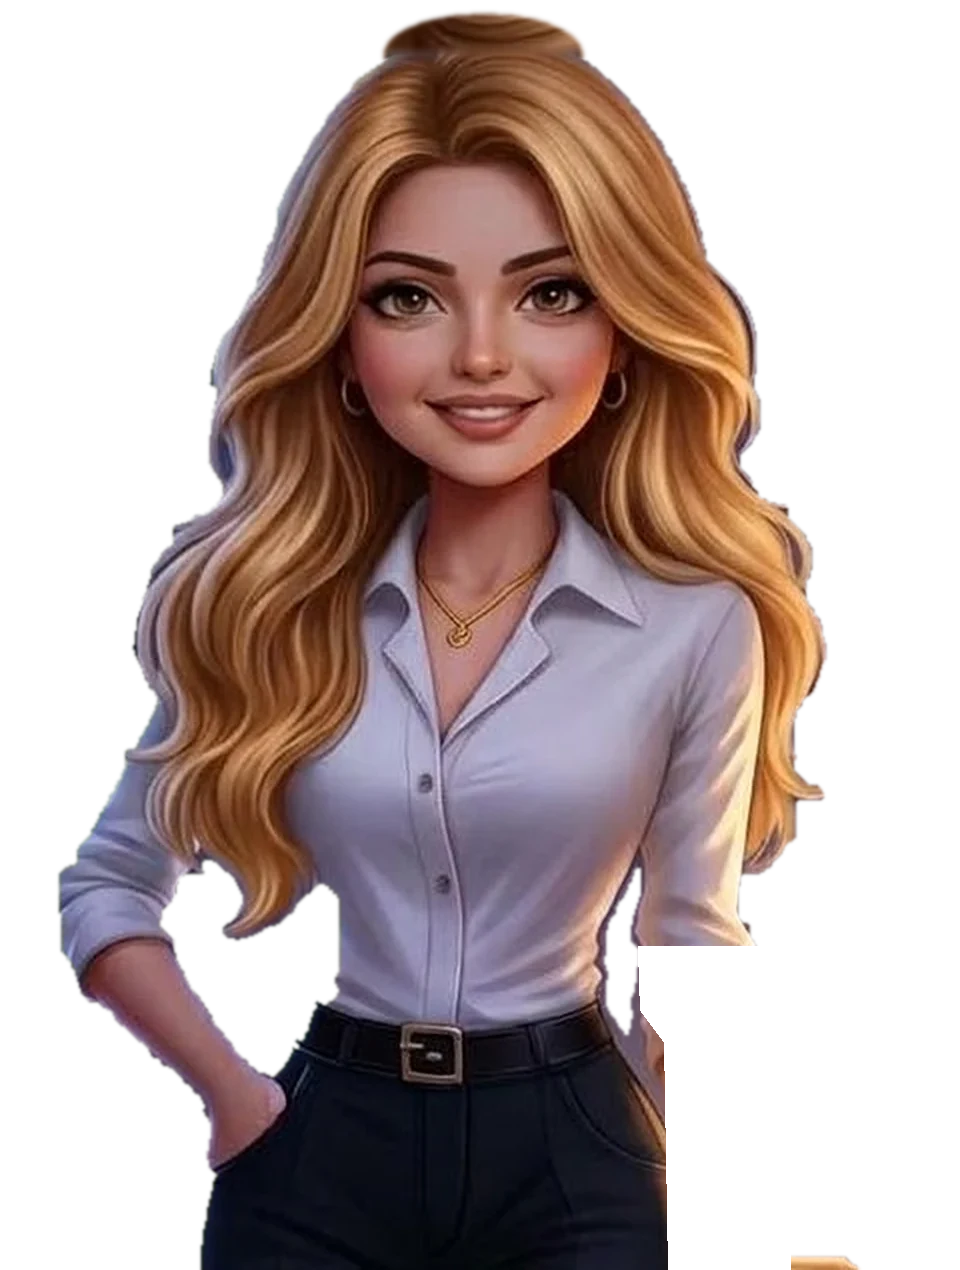
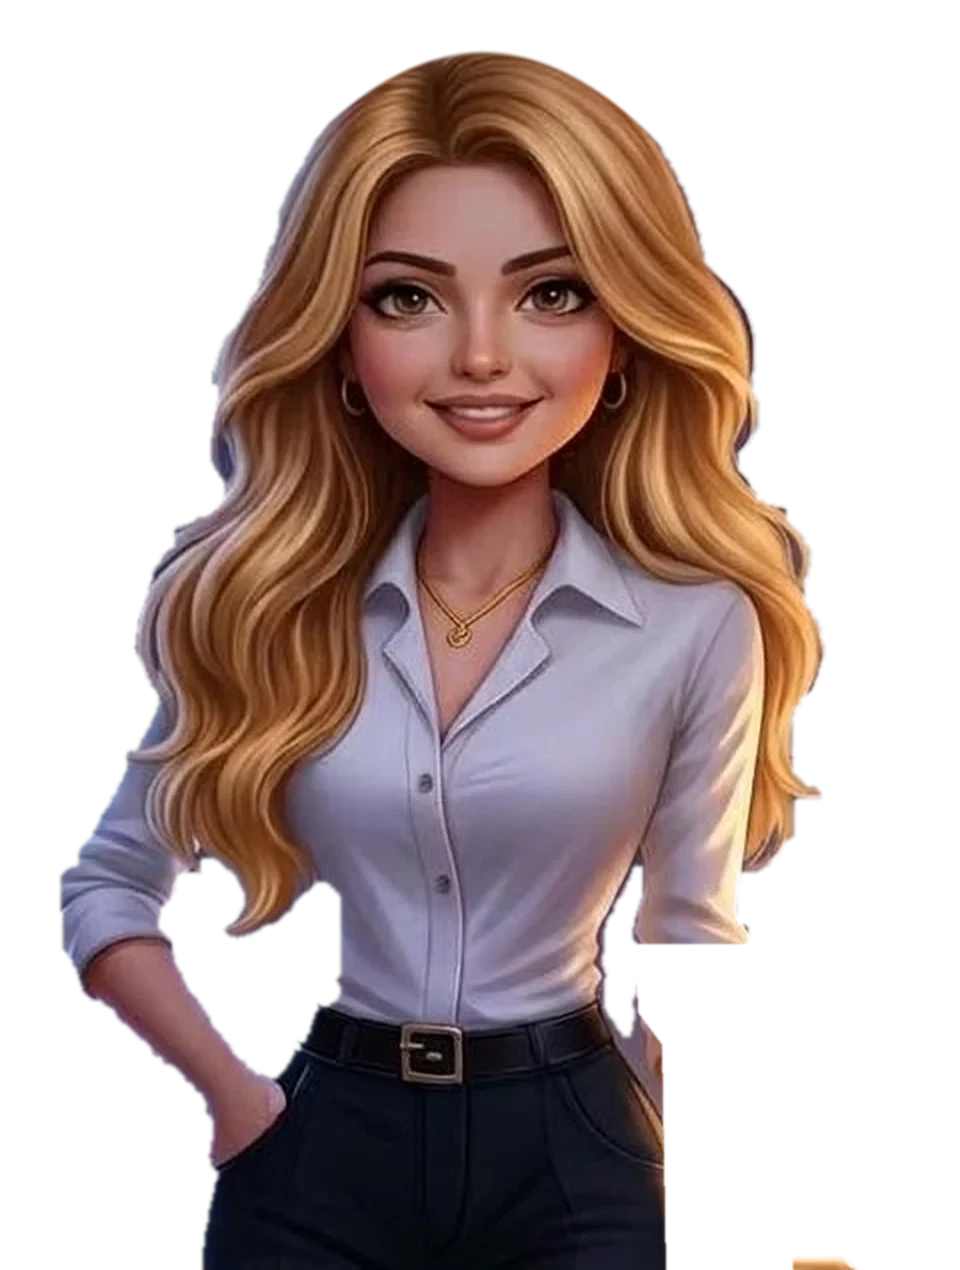
Accueil : tête d'Aura arrondie (bosse enlevée), contours nettoyés
Claude-Session: https://claude.ai/code/session_01GyMXAVoYJ61trCPZyWeH1L

diff --git a/index.html b/index.html
@@ -346,7 +346,7 @@ nav.dock button{font-weight:300;letter-spacing:.02em}
 <path class="s3" d="M148 70l1.4 4 4 1.4-4 1.4-1.4 4-1.4-4-4-1.4 4-1.4Z"/><path class="s2" d="M262 40l1.4 4 4 1.4-4 1.4-1.4 4-1.4-4-4-1.4 4-1.4Z"/>
 <path class="s3" d="M24 380l1.4 4 4 1.4-4 1.4-1.4 4-1.4-4-4-1.4 4-1.4Z"/><path d="M384 560l1.6 5 5 1.6-5 1.6-1.6 5-1.6-5-5-1.6 5-1.6Z"/></g>
 <ellipse cx="200" cy="830" rx="230" ry="40" fill="#E5BCC8" opacity=".55"/>
-</svg><div class="sptop"><h1 id="hi"></h1><p id="hi2"></p></div><div class="avatar aura" id="ava"><div class="fig"><img class="body" src="aura-full.webp" alt="Aura, ta styliste personnelle"><img class="bras" src="aura-bras2.webp" alt=""><img class="mf" src="aura-m1.jpg" alt=""><img class="mf" src="aura-m2.jpg" alt=""><img class="mf" src="aura-m3.jpg" alt=""><img class="blink" src="aura-blink.webp" alt=""></div></div><button class="tapaura" type="button" hidden>🔊 Touche pour entendre Aura</button><div class="spbot"><button class="btn" id="install" hidden>Télécharger l’application</button><div id="spnom" hidden><input class="field" id="spnomI" autocomplete="given-name" placeholder="Ton prénom" style="font-size:20px;padding:16px;margin-bottom:12px;text-align:center"><button class="btn show" id="spnomB" disabled>Continuer</button></div><p id="spst" class="spst"></p><button class="btn" id="talkbtn">Parler avec elle</button><button class="btn ghost" id="start">Commencer</button></div><button id="skip" class="skip" type="button">Passer ›</button></div>
+</svg><div class="sptop"><h1 id="hi"></h1><p id="hi2"></p></div><div class="avatar aura" id="ava"><div class="fig"><img class="body" src="aura-full.webp?v=2" alt="Aura, ta styliste personnelle"><img class="bras" src="aura-bras2.webp" alt=""><img class="mf" src="aura-m1.jpg" alt=""><img class="mf" src="aura-m2.jpg" alt=""><img class="mf" src="aura-m3.jpg" alt=""><img class="blink" src="aura-blink.webp" alt=""></div></div><button class="tapaura" type="button" hidden>🔊 Touche pour entendre Aura</button><div class="spbot"><button class="btn" id="install" hidden>Télécharger l’application</button><div id="spnom" hidden><input class="field" id="spnomI" autocomplete="given-name" placeholder="Ton prénom" style="font-size:20px;padding:16px;margin-bottom:12px;text-align:center"><button class="btn show" id="spnomB" disabled>Continuer</button></div><p id="spst" class="spst"></p><button class="btn" id="talkbtn">Parler avec elle</button><button class="btn ghost" id="start">Commencer</button></div><button id="skip" class="skip" type="button">Passer ›</button></div>
 <div id="inst" role="dialog" aria-modal="true" aria-labelledby="instT"><div class="sh"><h2 id="instT">Installer My Style</h2><p class="sub" id="instS">Quelques gestes dans Safari, et My Style s’ouvre comme une vraie application depuis ton écran d’accueil.</p>
 <ol id="instL"><li><span>Ouvert depuis <b>WhatsApp</b> ? Touche d’abord la <b>boussole Safari</b> <svg viewBox="0 0 24 24"><circle cx="12" cy="12" r="9"/><path d="M15.5 8.5l-2 5-5 2 2-5z"/></svg> en bas à droite</span></li><li><span>Touche <b>Partager</b> <svg viewBox="0 0 24 24"><path d="M12 15V3M8 7l4-4 4 4"/><path d="M6 11H5v10h14V11h-1"/></svg> en bas de Safari</span></li><li><span>Fais défiler et choisis <b>Sur l’écran d’accueil</b> <svg viewBox="0 0 24 24"><rect x="4" y="4" width="16" height="16" rx="4"/><path d="M12 8v8M8 12h8"/></svg></span></li><li><span>Touche <b>Ajouter</b>, puis ouvre l’icône My Style</span></li></ol>
 <button class="btn" id="instOk">J’ai compris</button></div></div>
